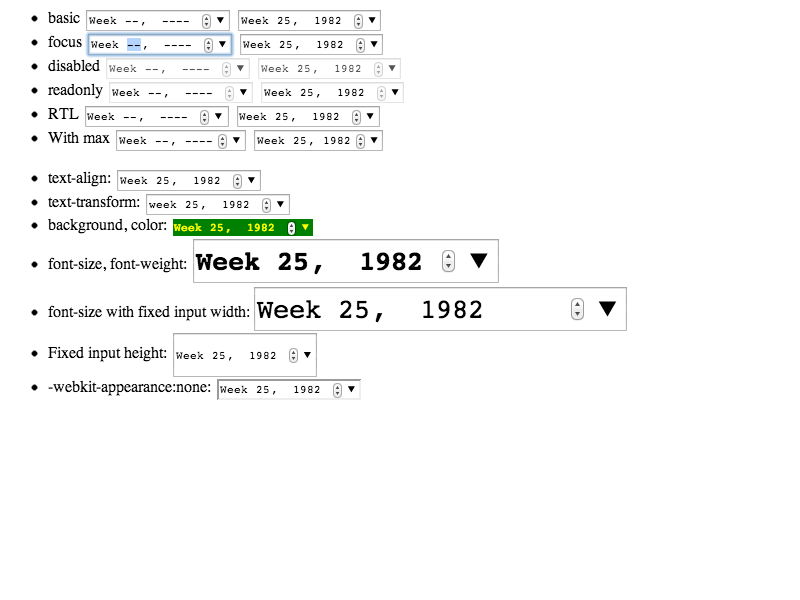
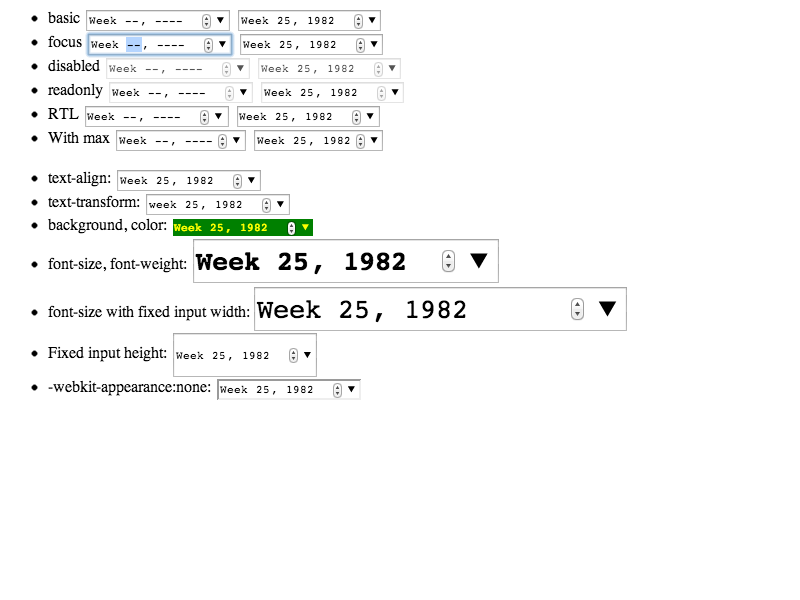
INPUT_MULTIPLE_FIELDS_UI doesn't show digits well in RTL locales https://bugs.webkit.org/show_bug.cgi?id=103869
Reviewed by Hajime Morita.

Source/WebCore:

We need to use display:inline elements to wrap sub-fields and static
text in DateTimeEditElement children to apply the Unicode Bidi
Algorithm.

Because we can't use display:inline-block for them, we can't specify
min-width CSS property for them. We stop using customStyleForRenderer of
sub-fields to specify each of their widths, and use
customStyleForRenderer of DateTimeEditElement to specify the total
required width. A sub-field width shrink and grow so that the width fits
to the field value, and a DateTimeEditElement doesn't.

No new tests. Coverred by existing tests, especially
fast/forms/datetime/datetime-appearance-l10n.html shows "23:59"
correctly.

* css/html.css:
(input::-webkit-datetime-edit-year-field):
- Make this display:inline to apply the Unicode Bidi Algorithm.
- Use padding instead of margin because of ease of width computation.
  Also, the focus apparance gets better by padding.
- Don't allow to specify font property here because of ease of width
  computation.
- Remove text-align:center. It doesn't work for display:inline.
(input::-webkit-datetime-edit-text):
- Make this display:inline to apply the Unicode Bidi Algorithm.
- Don't allow to specify font property here because of ease of width
  computation.

* html/shadow/DateTimeEditElement.h:
(DateTimeEditElement): Declare customStyleForRenderer.
* html/shadow/DateTimeEditElement.cpp:
(WebCore::DateTimeEditElement::DateTimeEditElement):
[…]

diff --git a/Source/WebCore/css/html.css b/Source/WebCore/css/html.css
@@ -540,6 +540,8 @@ input::-webkit-datetime-edit {
     white-space: pre;
 }
 
+/* If you update padding, border, or margin in the following ruleset, update
+   DateTimeFieldElement::maximumWidth too. */
 input::-webkit-datetime-edit-ampm-field,
 input::-webkit-datetime-edit-day-field,
 input::-webkit-datetime-edit-hour-field,
@@ -551,9 +553,9 @@ input::-webkit-datetime-edit-week-field,
 input::-webkit-datetime-edit-year-field {
     -webkit-user-modify: read-only !important;
     border: none;
-    display: inline-block;
-    margin: 1px;
-    text-align: center;
+    display: inline;
+    font: inherit !important;
+    padding: 1px;
 }
 
 /* Remove focus ring from fields and use highlight color */
@@ -579,9 +581,12 @@ input::-webkit-datetime-edit-second-field[readonly] {
     color: GrayText;
 }
 
+/* If you update padding, border, or margin in the following ruleset, update
+   DateTimeEditElement::customStyelForRenderer too. */
 input::-webkit-datetime-edit-text {
     -webkit-user-modify: read-only !important;
-    display: inline-block;
+    display: inline;
+    font: inherit !important;
 }
 
 input::-webkit-date-and-time-container {

diff --git a/LayoutTests/fast/forms/datetimelocal-multiple-fields/datetimelocal-multiple-fields-mouse-events.html b/LayoutTests/fast/forms/datetimelocal-multiple-fields/datetimelocal-multiple-fields-mouse-events.html
@@ -73,7 +73,7 @@ shouldBeZero('window.getSelection().rangeCount'); // No text selection.
 
 debug('');
 debug('==> Focus on the hour field.');
-mouseClickOn(input.offsetWidth - 156, center);
+mouseClickOn(190, center);
 keyDown('upArrow');
 shouldBeEqualToString('input.value', '2346-08-20T11:00');
 mouseClickOn(input.offsetWidth - spinButtonOffset, center - 1);
@@ -84,7 +84,7 @@ shouldBeZero('window.getSelection().rangeCount'); // No text selection.
 
 debug('');
 debug('==> Focus on the minute field.');
-mouseClickOn(input.offsetWidth - 108, center);
+mouseClickOn(240, center);
 keyDown('upArrow');
 shouldBeEqualToString('input.value', '2346-08-20T11:01');
 mouseClickOn(input.offsetWidth - spinButtonOffset, center - 1);

diff --git a/LayoutTests/fast/forms/month-multiple-fields/month-multiple-fields-mouse-events.html b/LayoutTests/fast/forms/month-multiple-fields/month-multiple-fields-mouse-events.html
@@ -40,7 +40,7 @@ var center = input.offsetHeight / 2;
 var spinButtonOffset = 26;
 
 debug('==> Focus on the month field.');
-mouseClickOn(100, center);
+mouseClickOn(16, center);
 keyDown('upArrow');
 shouldBeEqualToString('input.value', '2345-08');
 mouseClickOn(input.offsetWidth - spinButtonOffset, center - 1);
@@ -51,7 +51,7 @@ shouldBeZero('window.getSelection().rangeCount'); // No text selection.
 
 debug('');
 debug('==> Focus on the year field.');
-mouseClickOn(220, center);
+mouseClickOn(170, center);
 keyDown('upArrow');
 shouldBeEqualToString('input.value', '2346-08');
 mouseClickOn(input.offsetWidth - spinButtonOffset, center - 1);

diff --git a/LayoutTests/fast/forms/date-multiple-fields/date-multiple-fields-mouse-events.html b/LayoutTests/fast/forms/date-multiple-fields/date-multiple-fields-mouse-events.html
@@ -62,7 +62,7 @@ shouldBeZero('window.getSelection().rangeCount'); // No text selection.
 
 debug('');
 debug('==> Focus on the year field.');
-mouseClickOn(input.offsetWidth - 64, center);
+mouseClickOn(input.offsetWidth - 100, center);
 keyDown('upArrow');
 shouldBeEqualToString('input.value', '2346-08-20');
 mouseClickOn(input.offsetWidth - spinButtonOffset, center - 1);

diff --git a/Source/WebCore/html/shadow/DateTimeNumericFieldElement.cpp b/Source/WebCore/html/shadow/DateTimeNumericFieldElement.cpp
@@ -27,13 +27,12 @@
 #if ENABLE(INPUT_MULTIPLE_FIELDS_UI)
 #include "DateTimeNumericFieldElement.h"
 
-#include "FontCache.h"
+#include "Font.h"
 #include "KeyboardEvent.h"
 #include "PlatformLocale.h"
-#include "RenderStyle.h"
-#include "StyleResolver.h"
-#include "TextRun.h"
 #include <wtf/text/StringBuilder.h>
+
+using namespace WTF::Unicode;
 
 namespace WebCore {
 
@@ -66,7 +65,19 @@ DateTimeNumericFieldElement::DateTimeNumericFieldElement(Document* document, Fie
     , m_value(0)
     , m_hasValue(false)
 {
-    setHasCustomCallbacks();
+    // We show a direction-neutral string such as "--" as a placeholder. It
+    // should follow the direction of numeric values.
+    if (localeForOwner().isRTL()) {
+        Direction dir = direction(formatValue(this->maximum())[0]);
+        if (dir == LeftToRight || dir == EuropeanNumber || dir == ArabicNumber) {
+            StringBuilder builder;
+            builder.reserveCapacity(m_placeholder.length() + 2);
+            builder.append(leftToRightMark);
+            builder.append(m_placeholder);
+            builder.append(rightToLeftMark);
+            m_placeholder = builder.toString();
+        }
+    }
 }
 
 int DateTimeNumericFieldElement::clampValueForHardLimits(int value) const
@@ -74,16 +85,12 @@ int DateTimeNumericFieldElement::clampValueForHardLimits(int value) const
     return clampValue(value);
 }
 
-PassRefPtr<RenderStyle> DateTimeNumericFieldElement::customStyleForRenderer()
+float DateTimeNumericFieldElement::maximumWidth(const Font& font)
 {
-    FontCachePurgePreventer fontCachePurgePreventer;
-    RefPtr<RenderStyle> originalStyle = document()->styleResolver()->styleForElement(this);
-    RefPtr<RenderStyle> style = RenderStyle::clone(originalStyle.get());
-    float maximumWidth = style->font().width(m_placeholder);
-    maximumWidth = std::max(maximumWidth, style->font().width(formatValue(maximum())));
-    maximumWidth = std::max(maximumWidth, style->font().width(value()));
-    style->setMinWidth(Length(maximumWidth, Fixed));
-    return style.release();
+    float maximumWidth = font.width(m_placeholder);
+    maximumWidth = std::max(maximumWidth, font.width(formatValue(maximum())));
+    maximumWidth = std::max(maximumWidth, font.width(value()));
+    return maximumWidth + DateTimeFieldElement::maximumWidth(font);
 }
 
 int DateTimeNumericFieldElement::defaultValueForStepDown() const

diff --git a/Source/WebCore/html/shadow/DateTimeEditElement.cpp b/Source/WebCore/html/shadow/DateTimeEditElement.cpp
@@ -33,10 +33,13 @@
 #include "DateTimeFormat.h"
 #include "DateTimeSymbolicFieldElement.h"
 #include "EventHandler.h"
+#include "FontCache.h"
 #include "HTMLNames.h"
 #include "KeyboardEvent.h"
 #include "MouseEvent.h"
 #include "PlatformLocale.h"
+#include "RenderStyle.h"
+#include "StyleResolver.h"
 #include "Text.h"
 #include <wtf/DateMath.h>
 #include <wtf/text/StringBuilder.h>
@@ -301,6 +304,7 @@ DateTimeEditElement::DateTimeEditElement(Document* document, EditControlOwner& e
 {
     DEFINE_STATIC_LOCAL(AtomicString, dateTimeEditPseudoId, ("-webkit-datetime-edit", AtomicString::ConstructFromLiteral));
     setPseudo(dateTimeEditPseudoId);
+    setHasCustomCallbacks();
 }
 
 DateTimeEditElement::~DateTimeEditElement()
@@ -336,6 +340,31 @@ PassRefPtr<DateTimeEditElement> DateTimeEditElement::create(Document* document, 
 {
     RefPtr<DateTimeEditElement> container = adoptRef(new DateTimeEditElement(document, editControlOwner));
     return container.release();
+}
+
+PassRefPtr<RenderStyle> DateTimeEditElement::customStyleForRenderer()
+{
+    // FIXME: This is a kind of layout. We might want to introduce new renderer.
+    FontCachePurgePreventer fontCachePurgePreventer;
+    RefPtr<RenderStyle> originalStyle = document()->styleResolver()->styleForElement(this);
+    RefPtr<RenderStyle> style = RenderStyle::clone(originalStyle.get());
+    float width = 0;
+    for (Node* child = firstChild(); child; child = child->nextSibling()) {
+        if (!child->isElementNode())
+            continue;
+        Element* childElement = toElement(child);
+        if (childElement->isDateTimeFieldElement()) {
+            // We need to pass the Font of this element because child elements
+            // can't resolve inherited style at this timing.
+            width += static_cast<DateTimeFieldElement*>(childElement)->maximumWidth(style->font());
+        } else {
+            // ::-webkit-datetime-edit-text case. It has no
+            // border/padding/margin in html.css.
+            width += style->font().width(childElement->textContent());
+        }
+    }
+    style->setMinWidth(Length(ceilf(width), Fixed));
+    return style.release();
 }
 
 void DateTimeEditElement::didBlurFromField()

diff --git a/Source/WebCore/html/shadow/DateTimeSymbolicFieldElement.cpp b/Source/WebCore/html/shadow/DateTimeSymbolicFieldElement.cpp
@@ -27,12 +27,9 @@
 #if ENABLE(INPUT_MULTIPLE_FIELDS_UI)
 #include "DateTimeSymbolicFieldElement.h"
 
-#include "FontCache.h"
+#include "Font.h"
 #include "KeyboardEvent.h"
-#include "RenderStyle.h"
-#include "StyleResolver.h"
 #include "TextBreakIterator.h"
-#include "TextRun.h"
 #include <wtf/text/StringBuilder.h>
 #include <wtf/unicode/Unicode.h>
 
@@ -58,19 +55,14 @@ DateTimeSymbolicFieldElement::DateTimeSymbolicFieldElement(Document* document, F
     , m_typeAhead(this)
 {
     ASSERT(!symbols.isEmpty());
-    setHasCustomCallbacks();
 }
 
-PassRefPtr<RenderStyle> DateTimeSymbolicFieldElement::customStyleForRenderer()
+float DateTimeSymbolicFieldElement::maximumWidth(const Font& font)
 {
-    FontCachePurgePreventer fontCachePurgePreventer;
-    RefPtr<RenderStyle> originalStyle = document()->styleResolver()->styleForElement(this);
-    RefPtr<RenderStyle> style = RenderStyle::clone(originalStyle.get());
-    float maximumWidth = style->font().width(visibleEmptyValue());
+    float maximumWidth = font.width(visibleEmptyValue());
     for (unsigned index = 0; index < m_symbols.size(); ++index)
-        maximumWidth = std::max(maximumWidth, style->font().width(m_symbols[index]));
-    style->setMinWidth(Length(maximumWidth, Fixed));
-    return style.release();
+        maximumWidth = std::max(maximumWidth, font.width(m_symbols[index]));
+    return maximumWidth + DateTimeFieldElement::maximumWidth(font);
 }
 
 void DateTimeSymbolicFieldElement::handleKeyboardEvent(KeyboardEvent* keyboardEvent)

diff --git a/Source/WebCore/html/shadow/DateTimeFieldElement.h b/Source/WebCore/html/shadow/DateTimeFieldElement.h
@@ -34,6 +34,7 @@ namespace WebCore {
 
 class DateComponents;
 class DateTimeFieldsState;
+class Font;
 
 // DateTimeFieldElement is base class of date time field element.
 class DateTimeFieldElement : public HTMLElement {
@@ -62,6 +63,7 @@ public:
     virtual void defaultEventHandler(Event*) OVERRIDE;
     virtual bool hasValue() const = 0;
     bool isReadOnly() const;
+    virtual float maximumWidth(const Font&);
     virtual void populateDateTimeFieldsState(DateTimeFieldsState&) = 0;
     void removeEventHandler() { m_fieldOwner = 0; }
     void setReadOnly();
@@ -89,6 +91,7 @@ protected:
 
 private:
     void defaultKeyboardEventHandler(KeyboardEvent*);
+    virtual bool isDateTimeFieldElement() const OVERRIDE;
     virtual bool isFocusable() const OVERRIDE FINAL;
     bool isRTL() const;
     virtual bool supportsFocus() const OVERRIDE FINAL;

diff --git a/Source/WebCore/html/shadow/DateTimeNumericFieldElement.h b/Source/WebCore/html/shadow/DateTimeNumericFieldElement.h
@@ -68,12 +68,10 @@ protected:
     virtual String visibleValue() const OVERRIDE FINAL;
 
 private:
-    // Element function.
-    virtual PassRefPtr<RenderStyle> customStyleForRenderer() OVERRIDE;
-
     // DateTimeFieldElement functions.
     virtual void didBlur() OVERRIDE FINAL;
     virtual void handleKeyboardEvent(KeyboardEvent*) OVERRIDE FINAL;
+    virtual float maximumWidth(const Font&) OVERRIDE;
     virtual int minimum() const OVERRIDE FINAL;
     virtual void stepDown() OVERRIDE FINAL;
     virtual void stepUp() OVERRIDE FINAL;
@@ -83,7 +81,7 @@ private:
     Locale& localeForOwner() const;
 
     DOMTimeStamp m_lastDigitCharTime;
-    const String m_placeholder;
+    String m_placeholder;
     const Range m_range;
     int m_value;
     bool m_hasValue;

diff --git a/Source/WebCore/html/shadow/DateTimeFieldElement.cpp b/Source/WebCore/html/shadow/DateTimeFieldElement.cpp
@@ -144,6 +144,11 @@ void DateTimeFieldElement::initialize(const AtomicString& pseudo, const String& 
     appendChild(Text::create(document(), visibleValue()));
 }
 
+bool DateTimeFieldElement::isDateTimeFieldElement() const
+{
+    return true;
+}
+
 bool DateTimeFieldElement::isFocusable() const
 {
     if (isReadOnly())
@@ -166,6 +171,12 @@ bool DateTimeFieldElement::isRTL() const
 AtomicString DateTimeFieldElement::localeIdentifier() const
 {
     return m_fieldOwner ? m_fieldOwner->localeIdentifier() : nullAtom;
+}
+
+float DateTimeFieldElement::maximumWidth(const Font&)
+{
+    const float paddingLeftAndRight = 2; // This should match to html.css.
+    return paddingLeftAndRight;
 }
 
 void DateTimeFieldElement::setReadOnly()

diff --git a/Source/WebCore/html/shadow/DateTimeSymbolicFieldElement.h b/Source/WebCore/html/shadow/DateTimeSymbolicFieldElement.h
@@ -48,12 +48,12 @@ protected:
 private:
     static const int invalidIndex = -1;
 
-    virtual PassRefPtr<RenderStyle> customStyleForRenderer() OVERRIDE FINAL;
     String visibleEmptyValue() const;
 
     // DateTimeFieldElement functions.
     virtual void handleKeyboardEvent(KeyboardEvent*) OVERRIDE FINAL;
     virtual int maximum() const OVERRIDE FINAL;
+    virtual float maximumWidth(const Font&) OVERRIDE;
     virtual int minimum() const OVERRIDE FINAL;
     virtual void stepDown() OVERRIDE FINAL;
     virtual void stepUp() OVERRIDE FINAL;

diff --git a/Source/WebCore/html/shadow/DateTimeEditElement.h b/Source/WebCore/html/shadow/DateTimeEditElement.h
@@ -130,6 +130,9 @@ private:
     void layout(const LayoutParameters&, const DateComponents&);
     void updateUIState();
 
+    // Element function.
+    virtual PassRefPtr<RenderStyle> customStyleForRenderer() OVERRIDE;
+
     // DateTimeFieldElement::FieldOwner functions.
     virtual void didBlurFromField() OVERRIDE FINAL;
     virtual void didFocusOnField() OVERRIDE FINAL;
